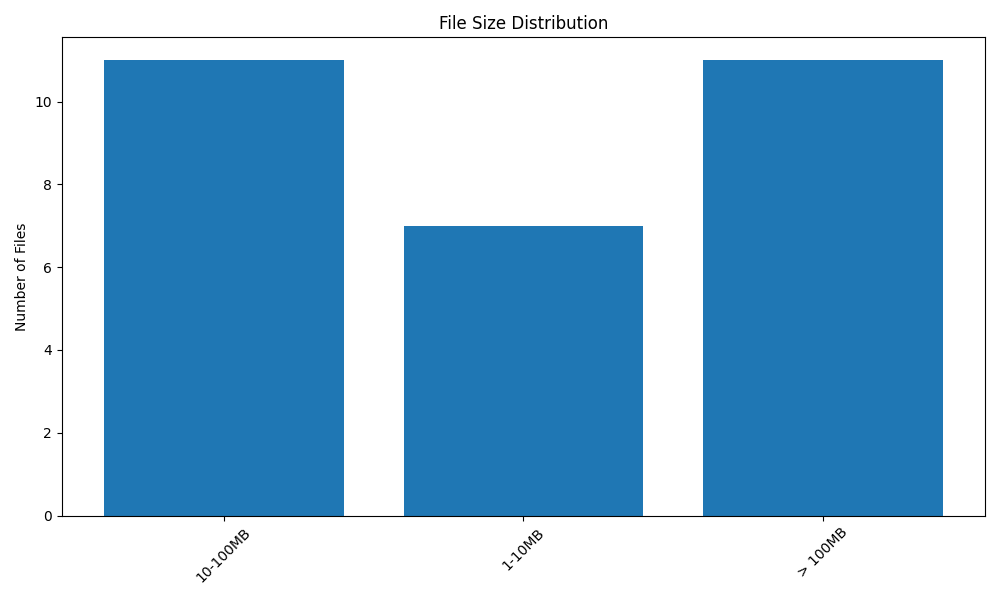
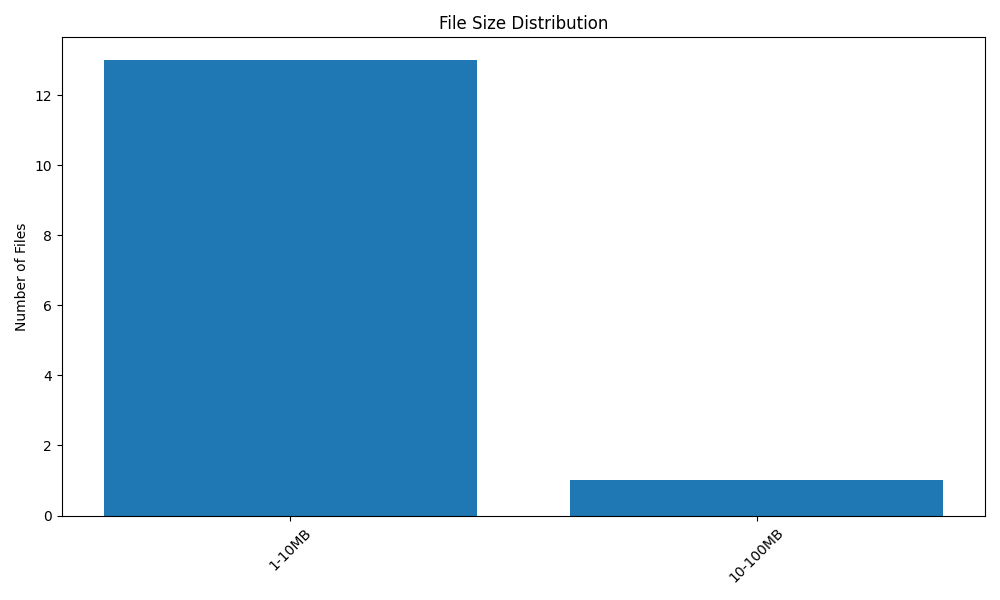
update analysis report with new file statistics and reorganized directory structure

diff --git a/report/analysis_report.md b/report/analysis_report.md
@@ -1,99 +1,56 @@
 # File System Analysis Report
-    Generated on: 2024-10-28 07:04:54
+    Generated on: 2024-11-10 02:17:32
 
     ## Overview
-    - Total Files: 29
-    - Total Size: 15.3 GB
+    - Total Files: 14
+    - Total Size: 83.1 MB
 
     ## File Extensions
     
-    - .c: 1 files
-    
-    - .dic: 3 files
-    
-    - .h: 1 files
-    
-    - .lib: 1 files
-    
-    - .mkv: 10 files
-    
-    - .mp4: 5 files
-    
-    - .pdf: 8 files
+    - .pdf: 14 files
     
 
     ## Current Directory Structure
     ```
-    └── test
-    ├── Code
-    │   └── data_file.c
-    ├── Compressed
-    │   └── php-8.3.13-src
-    │       └── php
-    │           └── ext
-    │               └── date
-    │                   └── lib
-    │                       └── timezonedb.h
-    ├── Documents
-    │   └── Documents
-    │       ├── dai2020_1.pdf
-    │       ├── Data structure Graphs_1.pdf
-    │       ├── Graph_merged_1.pdf
-    │       ├── Hashing24-25_1.pdf
-    │       ├── MST 2_10_1.pdf
-    │       ├── remotesensing-13-04481-v2_1.pdf
-    │       ├── scirobotics.abm5954_sm_1.pdf
-    │       └── SiH_RailMadad_PPT_1.pdf
-    ├── mysql-enterprise-9.0.1_winx64_bundle
-    │   └── mysql-commercial-9.0.1-winx64
-    │       └── mysql-commercial-9.0.1-winx64
-    │           └── lib
-    │               ├── mecab
-    │               │   └── dic
-    │               │       ├── ipadic_euc-jp
-    │               │       │   └── sys.dic
-    │               │       ├── ipadic_sjis
-    │               │       │   └── sys.dic
-    │               │       └── ipadic_utf-8
-    │               │           └── sys.dic
-    │               └── mysqlclient.lib
-    └── Video
-        ├── IC_Tester_vid_1.mp4
-        ├── Rail Madad-20240929_191823-Meeting Recording_1.mp4
-        ├── Rail Madad-20240929_193613-Meeting Recording_1.mp4
-        ├── RailMadad_1.mp4
-        ├── train_1.mp4
-        ├── You.S01E01.1080p.Hindi.English.Esubs.MoviesVerse.Me_1.mkv
-        ├── You.S01E02.1080p.Hindi.English.Esubs.MoviesVerse.Me_1.mkv
-        ├── You.S01E03.1080p.Hindi.English.Esubs.MoviesVerse.Me_1.mkv
-        ├── You.S01E04.1080p.Hindi.English.Esubs.MoviesVerse.Me_1.mkv
-        ├── You.S01E05.1080p.Hindi.English.Esubs.MoviesVerse.Me_1.mkv
-        ├── You.S01E06.1080p.Hindi.English.Esubs.MoviesVerse.Me_1.mkv
-        ├── You.S01E07.1080p.Hindi.English.Esubs.MoviesVerse.Me_1.mkv
-        ├── You.S01E08.1080p.Hindi.English.Esubs.MoviesVerse.Me_1.mkv
-        ├── You.S01E09.1080p.Hindi.English.Esubs.MoviesVerse.Me_1.mkv
-        └── You.S01E10.1080p.Hindi.English.Esubs.MoviesVerse.Me_1.mkv
+    └── EM-III_Maths_Notes
+    ├── Engineering Mathematics - III Lecture Notes (USK Sir)
+    │   ├── 03. Laplace Transform Lecture 3.pdf
+    │   ├── 05. Laplace Transform Lecture 5.pdf
+    │   ├── 06. Laplace + Inverse Laplace Transform Lecture 6.pdf
+    │   ├── 07. Inverse Laplace Transform Lecture 7.pdf
+    │   ├── 14. Fourier Series Lecture 3.pdf
+    │   ├── 15. Fourier Series Lecture 4.pdf
+    │   ├── 16. Fourier Series Online Lecture 5.pdf
+    │   ├── 18. Adv Matrix Theory Lecture 2.pdf
+    │   ├── 19. Adv Matrix Theory Online Lectures 3, 4 and 5.pdf
+    │   ├── 21. Adv Matrix Theory Lecture 7.pdf
+    │   ├── 23. Complex Variable Online Lecture 2.pdf
+    │   ├── 25. Complex Variable Lecture 4.pdf
+    │   └── 26. Complex Variable Lecture 5.pdf
+    └── extc
+        └── Fourier Transform
+            └── fourier transform Solved Examples.pdf
 
     ```
 
     ## Proposed Directory Structure
     ```
     └── organized_files
-    ├── documents
-    │   ├── dai2020_1.pdf
-    │   ├── Data structure Graphs_1.pdf
-    │   ├── Graph_merged_1.pdf
-    │   ├── Hashing24-25_1.pdf
-    │   ├── MST 2_10_1.pdf
-    │   ├── remotesensing-13-04481-v2_1.pdf
-    │   ├── scirobotics.abm5954_sm_1.pdf
-    │   └── SiH_RailMadad_PPT_1.pdf
-    └── media
-        ├── IC_Tester_vid_1.mp4
-        ├── Rail Madad-20240929_191823-Meeting Recording_1.mp4
-        ├── Rail Madad-20240929_193613-Meeting Recording_1.mp4
-        ├── RailMadad_1.mp4
-        └── train_1.mp4
+    └── documents
+        ├── 03. Laplace Transform Lecture 3.pdf
+        ├── 05. Laplace Transform Lecture 5.pdf
+        ├── 06. Laplace + Inverse Laplace Transform Lecture 6.pdf
+        ├── 07. Inverse Laplace Transform Lecture 7.pdf
+        ├── 14. Fourier Series Lecture 3.pdf
+        ├── 15. Fourier Series Lecture 4.pdf
+        ├── 16. Fourier Series Online Lecture 5.pdf
+        ├── 18. Adv Matrix Theory Lecture 2.pdf
+        ├── 19. Adv Matrix Theory Online Lectures 3, 4 and 5.pdf
+        ├── 21. Adv Matrix Theory Lecture 7.pdf
+        ├── 23. Complex Variable Online Lecture 2.pdf
+        ├── 25. Complex Variable Lecture 4.pdf
+        ├── 26. Complex Variable Lecture 5.pdf
+        └── fourier transform Solved Examples.pdf
 
     ```
 
@@ -108,34 +65,22 @@
     
     ### Medium Files:
     
-    - data_file.c
+    - 03. Laplace Transform Lecture 3.pdf
     
-    - timezonedb.h
+    - 05. Laplace Transform Lecture 5.pdf
     
-    - dai2020_1.pdf
+    - 06. Laplace + Inverse Laplace Transform Lecture 6.pdf
     
-    - Data structure Graphs_1.pdf
+    - 07. Inverse Laplace Transform Lecture 7.pdf
     
-    - Graph_merged_1.pdf
+    - 14. Fourier Series Lecture 3.pdf
     
     
-    ... and 13 more
+    ... and 9 more
     
     
     ### Large Files:
     
-    - RailMadad_1.mp4
-    
-    - You.S01E01.1080p.Hindi.English.Esubs.MoviesVerse.Me_1.mkv
-    
-    - You.S01E02.1080p.Hindi.English.Esubs.MoviesVerse.Me_1.mkv
-    
-    - You.S01E03.1080p.Hindi.English.Esubs.MoviesVerse.Me_1.mkv
-    
-    - You.S01E04.1080p.Hindi.English.Esubs.MoviesVerse.Me_1.mkv
-    
-    
-    ... and 6 more
     
     
     
